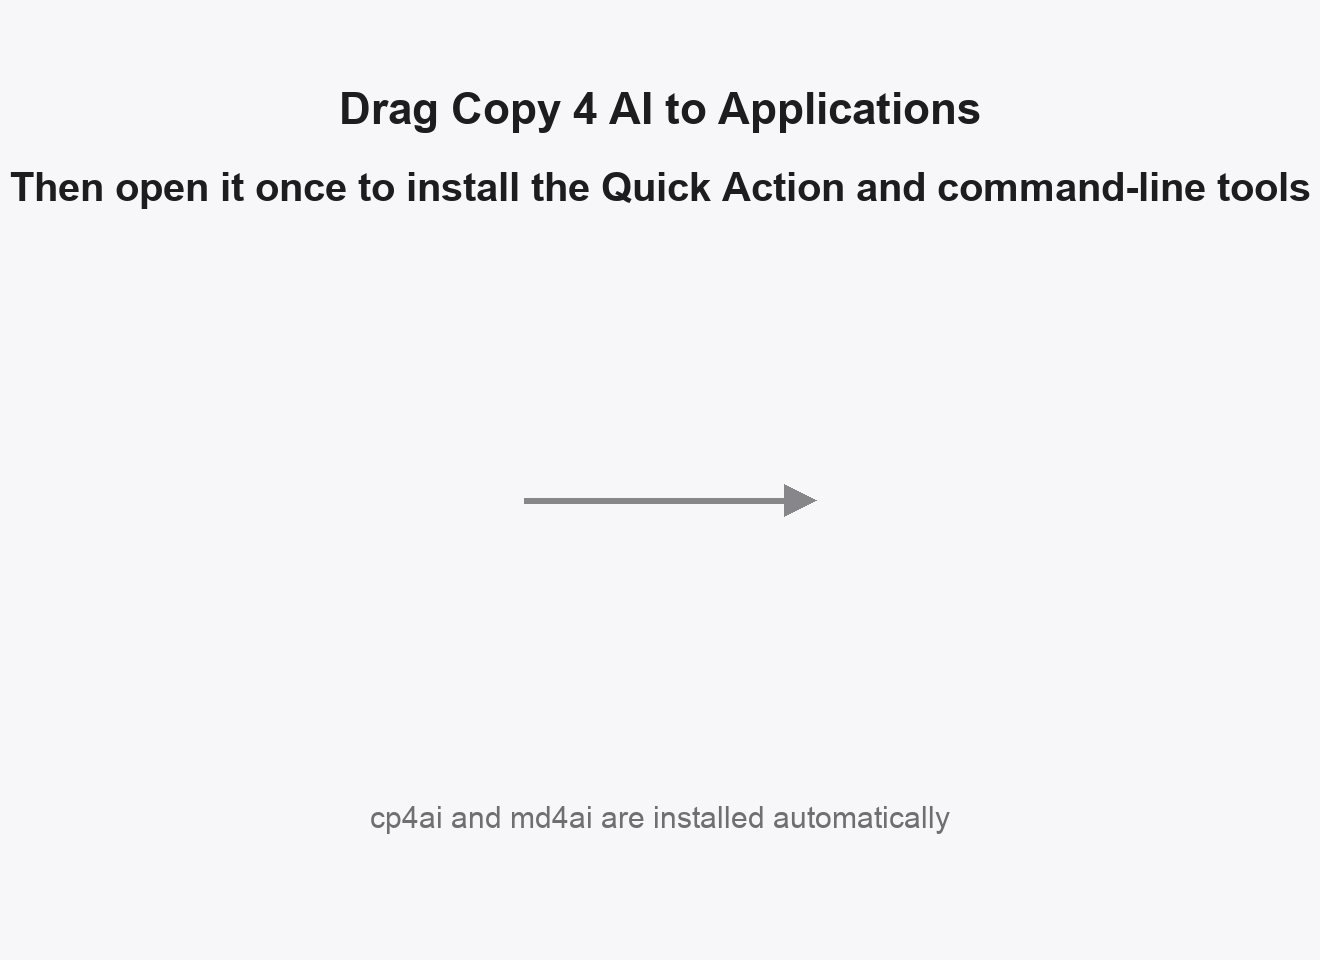
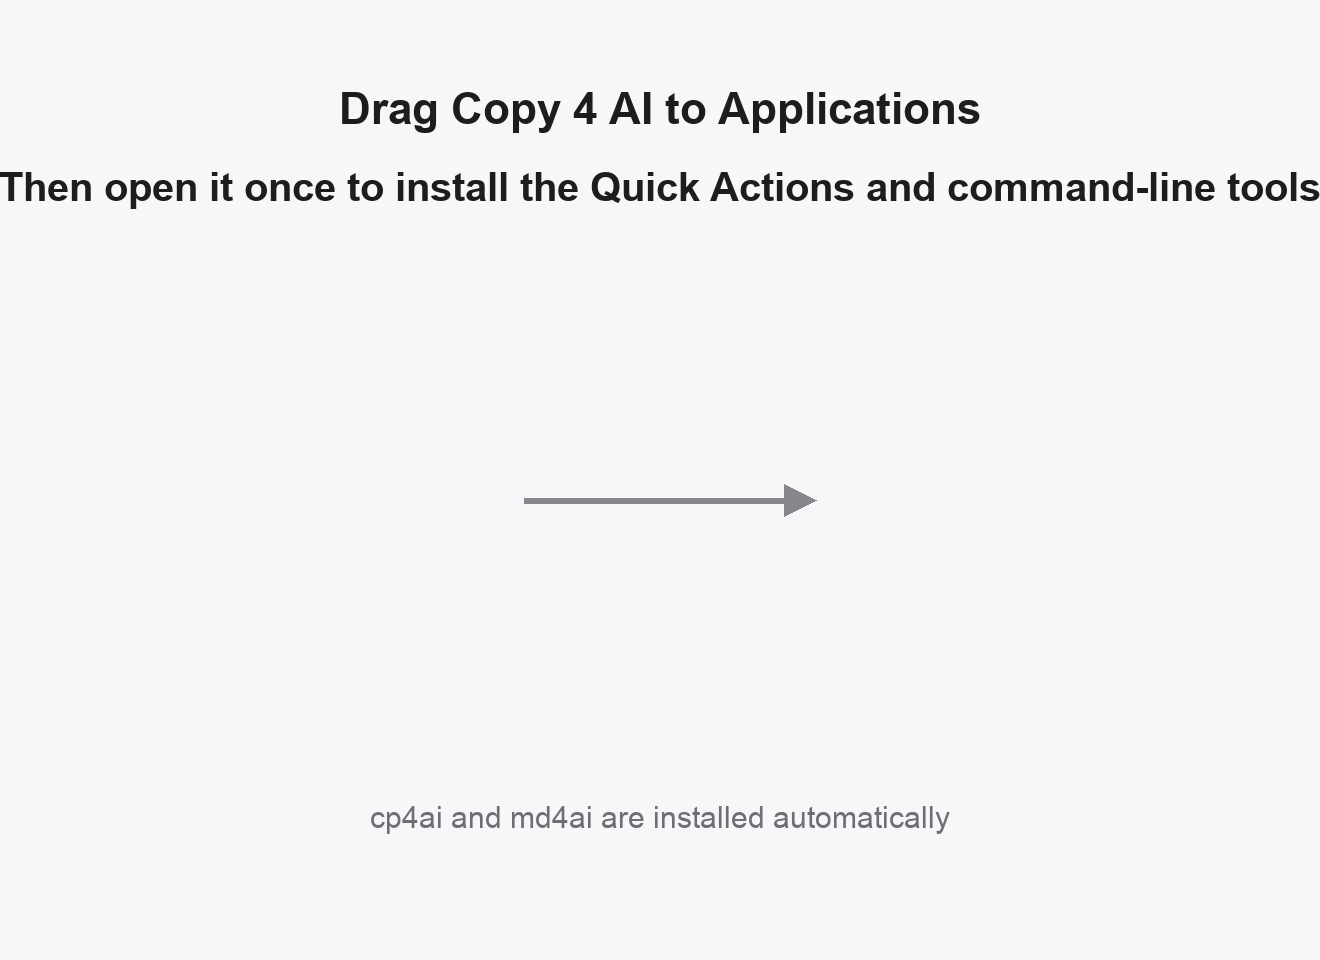
Add a Copy 4 AI (no OCR) Quick Action
- Register a second native Finder service for the no-OCR mode.
- Queue mixed OCR/no-OCR batches independently.
- Update the DMG background and docs for both Quick Actions.

Changed region(s): [[0.0, 0.1562, 1.0, 0.2188]]

diff --git a/App/AppDelegate.swift b/App/AppDelegate.swift
@@ -3,9 +3,14 @@ import CP4AICore
 import Foundation
 
 final class AppDelegate: NSObject, NSApplicationDelegate {
+    private struct PendingBatch {
+        let sources: [URL]
+        let useOCR: Bool
+    }
+
     private let progress = ProgressController()
     private var busy = false
-    private var pending: [[URL]] = []
+    private var pending: [PendingBatch] = []
     private var idleExit: DispatchWorkItem?
     private var quickActionReceived = false
 
@@ -33,7 +38,7 @@ final class AppDelegate: NSObject, NSApplicationDelegate {
         quickActionReceived = true
         idleExit?.cancel()
         idleExit = nil
-        beginBatch(urls)
+        beginBatch(urls, useOCR: true)
     }
 
     /// Finder Quick Action entry point (`NSMessage = copy4AI`).
@@ -41,6 +46,23 @@ final class AppDelegate: NSObject, NSApplicationDelegate {
         _ pasteboard: NSPasteboard,
         userData: String,
         error: AutoreleasingUnsafeMutablePointer<NSString>
+    ) {
+        handleService(pasteboard, error: error, useOCR: true)
+    }
+
+    /// Finder Quick Action entry point (`NSMessage = copy4AINoOCR`).
+    @objc func copy4AINoOCR(
+        _ pasteboard: NSPasteboard,
+        userData: String,
+        error: AutoreleasingUnsafeMutablePointer<NSString>
+    ) {
+        handleService(pasteboard, error: error, useOCR: false)
+    }
+
+    private func handleService(
+        _ pasteboard: NSPasteboard,
+        error: AutoreleasingUnsafeMutablePointer<NSString>,
+        useOCR: Bool
     ) {
         quickActionReceived = true
         idleExit?.cancel()
@@ -55,10 +77,10 @@ final class AppDelegate: NSObject, NSApplicationDelegate {
             error.pointee = "Select DOCX, PDF or PPTX files, not folders." as NSString
             return
         }
-        beginBatch(urls)
+        beginBatch(urls, useOCR: useOCR)
     }
 
-    private func beginBatch(_ urls: [URL]) {
+    private func beginBatch(_ urls: [URL], useOCR: Bool) {
         let (valid, rejected) = SourceFilter.filter(urls)
         guard !valid.isEmpty else {
             let reason = rejected.first?.1 ?? "no supported files"
@@ -67,16 +89,19 @@ final class AppDelegate: NSObject, NSApplicationDelegate {
         }
         let sources = SourceFilter.sortedByName(valid)
         if busy {
-            pending.append(sources)
+            pending.append(PendingBatch(sources: sources, useOCR: useOCR))
             progress.queued()
             return
         }
 
         busy = true
         progress.begin(count: sources.count, skipped: rejected.count)
-        AppLog.write("starting batch: \(sources.map(\.lastPathComponent).joined(separator: ", "))")
+        AppLog.write(
+            "starting \(useOCR ? "OCR" : "no-OCR") batch: "
+                + sources.map(\.lastPathComponent).joined(separator: ", ")
+        )
 
-        let options = ConversionOptions.quickAction()
+        let options = ConversionOptions.quickAction(useOCR: useOCR)
         let engine = ConversionEngine(options: options)
         DispatchQueue.global(qos: .userInitiated).async { [weak self] in
             do {
@@ -136,7 +161,7 @@ final class AppDelegate: NSObject, NSApplicationDelegate {
                 NSApp.terminate(nil)
             } else {
                 let next = self.pending.removeFirst()
-                self.beginBatch(next)
+                self.beginBatch(next.sources, useOCR: next.useOCR)
             }
         }
     }

diff --git a/Packages/CP4AICore/Sources/CP4AICore/Models.swift b/Packages/CP4AICore/Sources/CP4AICore/Models.swift
@@ -19,9 +19,12 @@ public struct ConversionOptions {
     }
 
     /// The Quick Action uses a lower cap so Vision does not exhaust memory.
-    public static func quickAction(resources: CP4AIResources = .locate()) -> ConversionOptions {
+    public static func quickAction(
+        useOCR: Bool = true,
+        resources: CP4AIResources = .locate()
+    ) -> ConversionOptions {
         let cap = min(max(1, ProcessInfo.processInfo.activeProcessorCount), 6)
-        return ConversionOptions(jobs: cap, resources: resources)
+        return ConversionOptions(useOCR: useOCR, jobs: cap, resources: resources)
     }
 }
 

diff --git a/packaging/make_dmg_background.py b/packaging/make_dmg_background.py
@@ -34,7 +34,7 @@ def main() -> int:
         fill=INK,
     )
 
-    subtitle = "Then open it once to install the Quick Action and command-line tools"
+    subtitle = "Then open it once to install the Quick Actions and command-line tools"
     subtitle_font = font(40, bold=True)
     subtitle_width = draw.textlength(subtitle, font=subtitle_font)
     draw.text(

diff --git a/README.md b/README.md
@@ -12,9 +12,10 @@ interpret them; silently dropping a point is not recoverable.
 
 ## What is included
 
-- **Finder Quick Action** — select DOCX/PDF/PPTX files, right-click →
-  Quick Actions → **Copy 4 AI**. A small progress panel shows the work and the
-  concatenated Markdown lands on the clipboard.
+- **Finder Quick Actions** — select DOCX/PDF/PPTX files, right-click →
+  Quick Actions → **Copy 4 AI** (OCR) or **Copy 4 AI (no OCR)**. A small
+  progress panel shows the work and the concatenated Markdown lands on the
+  clipboard.
 - **`cp4ai`** — the same conversion from a terminal, copying to the clipboard.
 - **`md4ai`** — writes `<source>.pdf.md`, `<source>.docx.md` or
   `<source>.pptx.md` next to the input.
@@ -51,8 +52,9 @@ On first launch the app installs:
 
 both pointing at the app's embedded CLI, and appends a marked block to
 `~/.zprofile` so `~/.local/bin` is on `PATH`. Open a new terminal after the
-first launch. To install the Quick Action, select DOCX/PDF/PPTX files in
-Finder, then right-click → **Quick Actions** → **Copy 4 AI**.
+first launch. To use the Quick Actions, select DOCX/PDF/PPTX files in Finder,
+then right-click → **Quick Actions** → **Copy 4 AI** or
+**Copy 4 AI (no OCR)**.
 
 To remove everything:
 
@@ -62,7 +64,7 @@ rm -f "$HOME/.local/bin/cp4ai" "$HOME/.local/bin/md4ai"
 # Then remove the "Copy 4 AI command-line tools" block from ~/.zprofile.
 ```
 
-The Quick Action disappears with the app after Finder refreshes its Services.
+The Quick Actions disappear with the app after Finder refreshes its Services.
 
 ## CLI
 

diff --git a/RELEASE_NOTES.md b/RELEASE_NOTES.md
@@ -7,8 +7,10 @@ Vision OCR pipeline.
 
 - **Swift app** — the Quick Action handler and floating progress panel are now
   AppKit/Swift, with a shared Swift core for DOCX, PPTX and PDF conversion.
-- **No main window** — the Finder Quick Action is the only GUI. The app
+- **No main window** — the Finder Quick Actions are the only GUI. The app
   registers itself as a native Finder service and exits when idle.
+- **Two Quick Actions** — **Copy 4 AI** uses Apple Vision OCR; **Copy 4 AI
+  (no OCR)** skips OCR entirely and marks images as omitted.
 - **Apple Vision OCR** — uses the current Swift `RecognizeTextRequest`
   API. Tesseract and the `--tesseract`/`--livetext` flags are gone.
 - **Python only for PDF parsing** — a small PyInstaller helper built around
